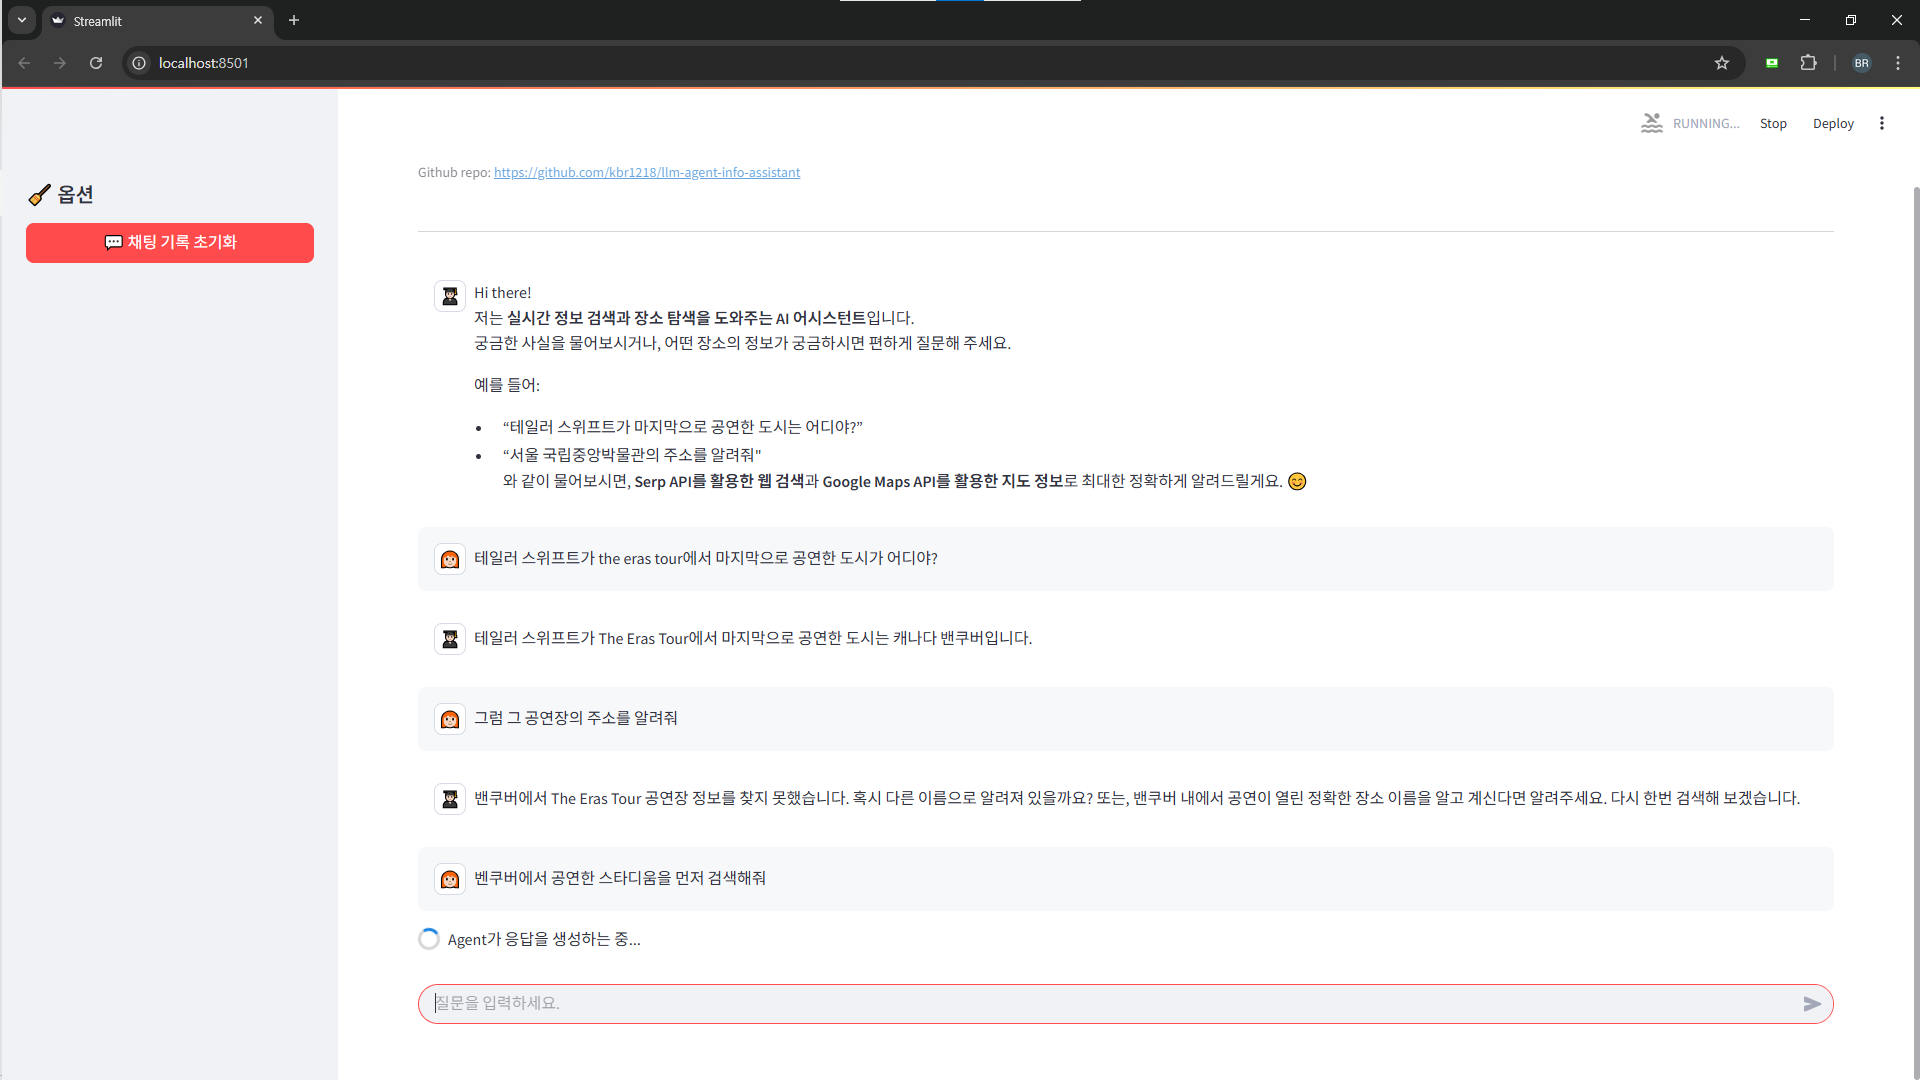
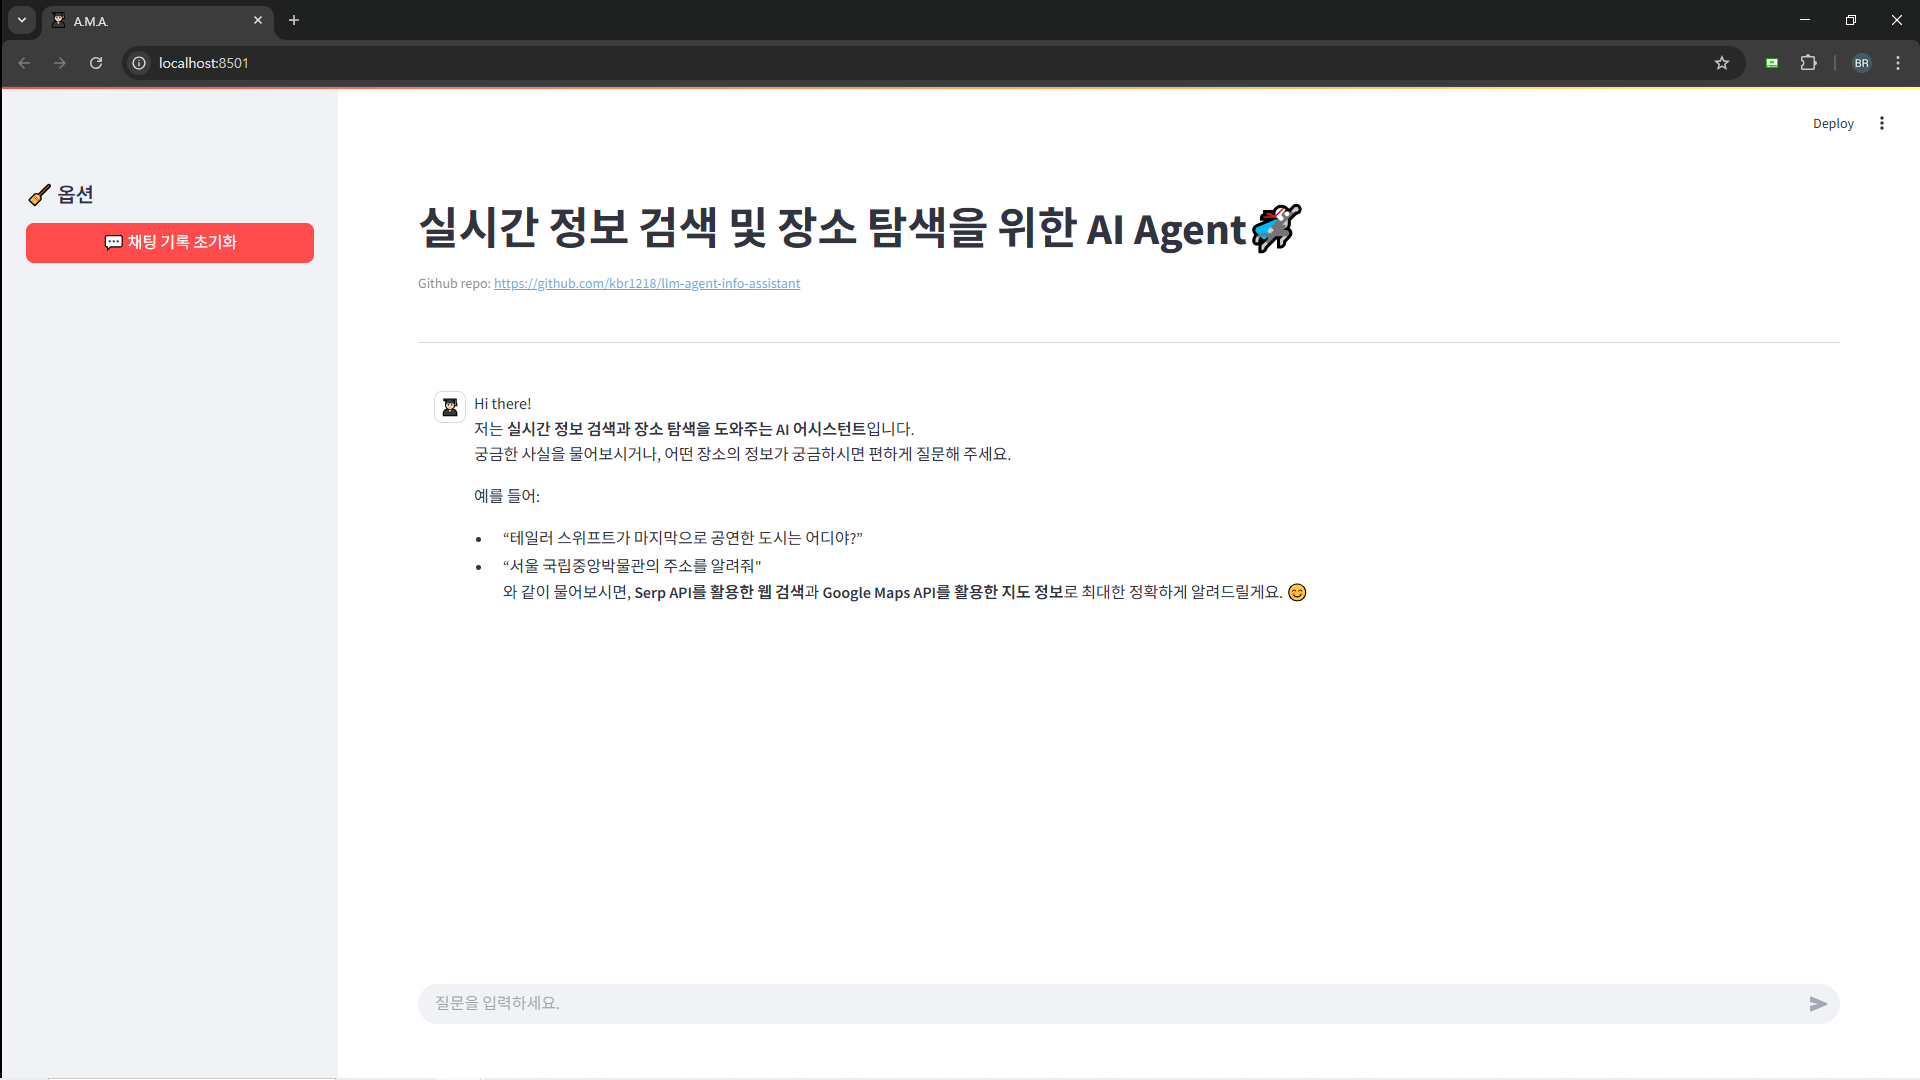
[DOCS] 샘플 서비스 화면 이미지 변경

diff --git a/app/ui.py b/app/ui.py
@@ -5,7 +5,7 @@ from prompt.say_hi_to_user import say_hi
 from langchain_core.messages import HumanMessage, AIMessage
 
 # 페이지 기본 설정
-st.set_page_config(page_title="A.M.A.", page_icon="👨🏻🎓", layout="wide")
+st.set_page_config(page_title="sample", page_icon="👨🏻🎓", layout="wide")
 
 def run_app():
     st.title("실시간 정보 검색 및 장소 탐색을 위한 AI Agent🐱🏍")
